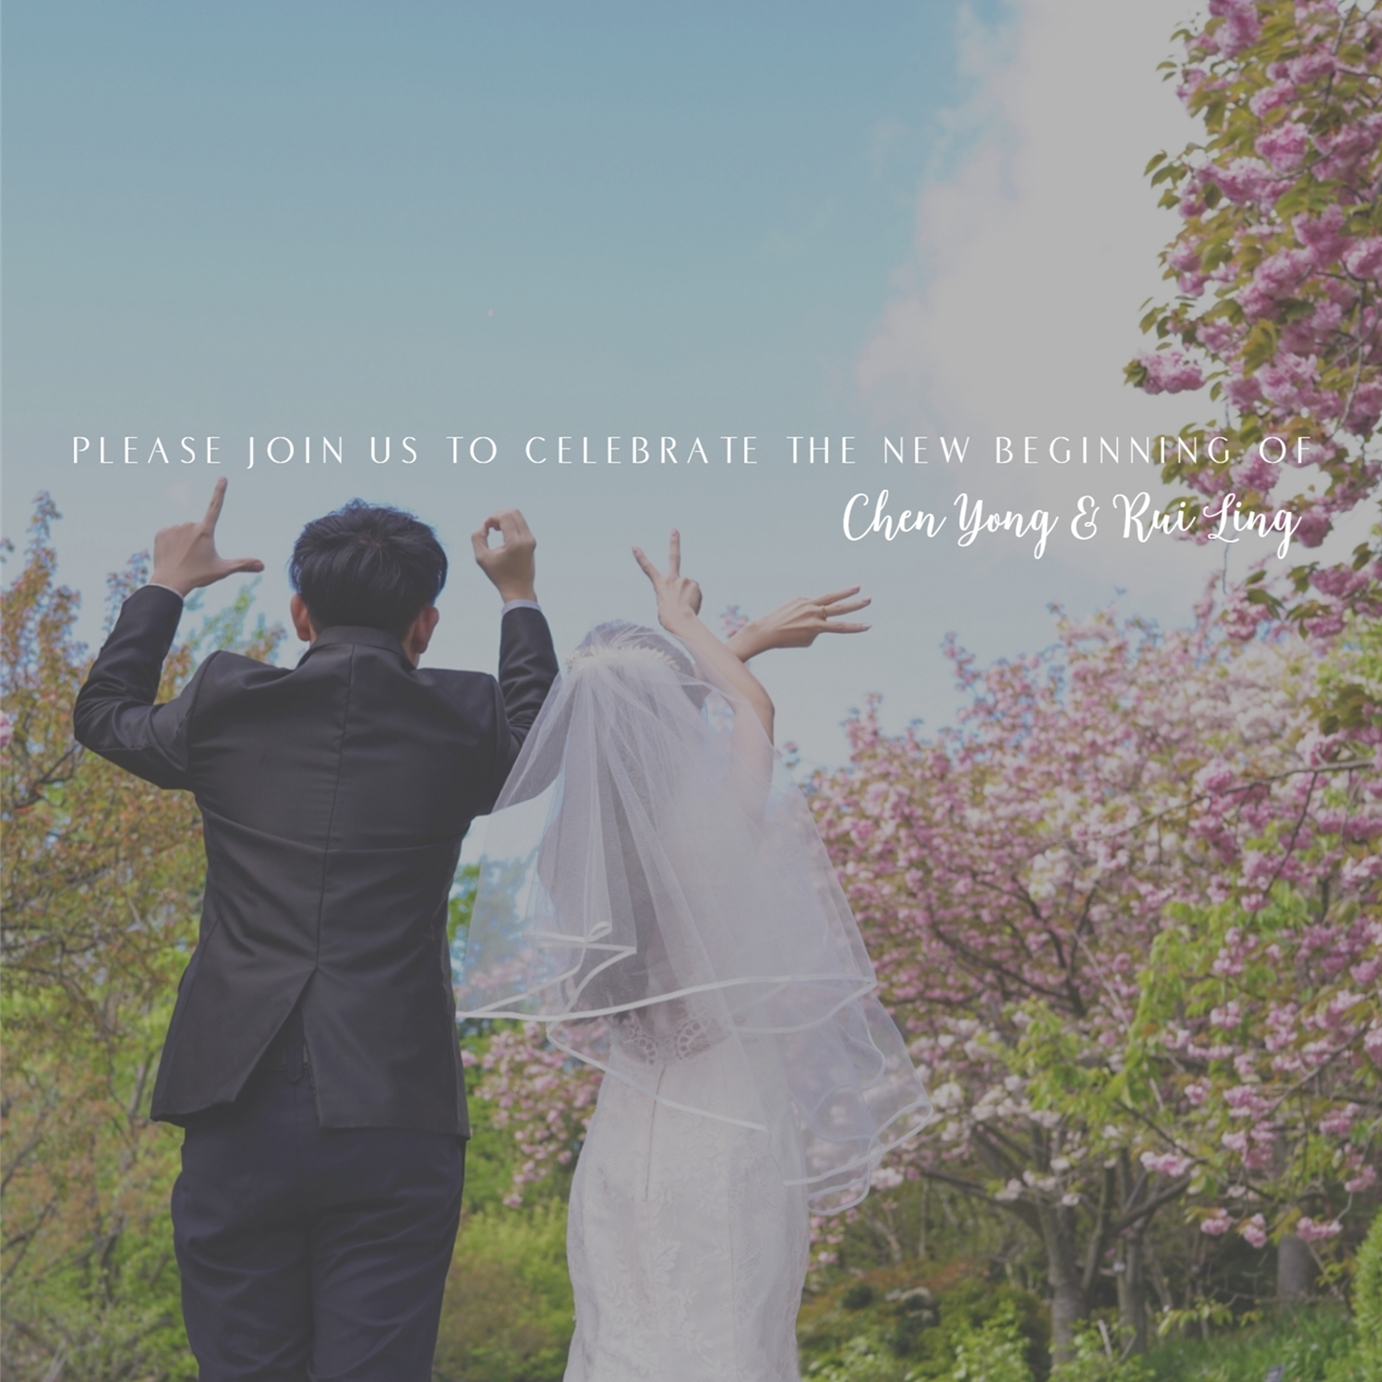
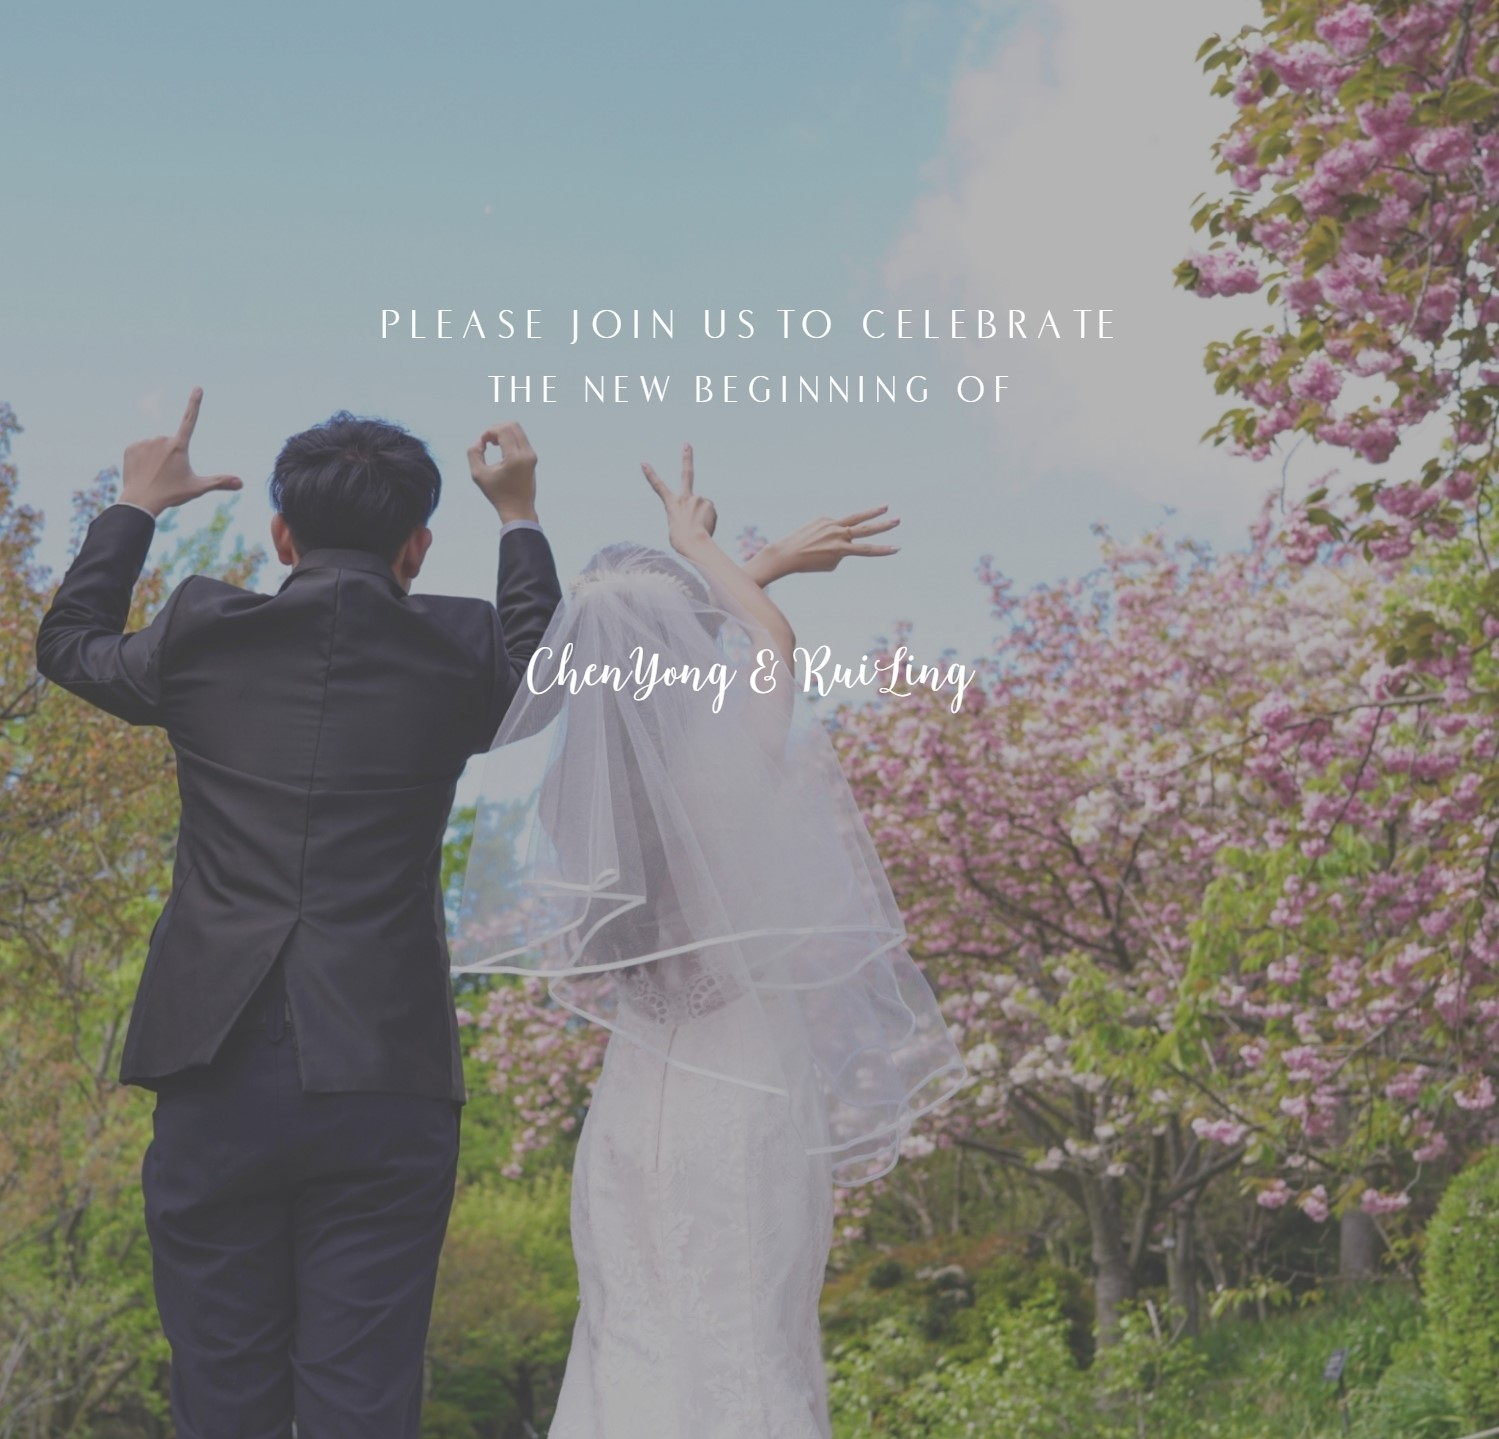
28-sep

diff --git a/rysayido/src/main/webapp/index.html b/rysayido/src/main/webapp/index.html
@@ -58,27 +58,27 @@
       </div>
     </nav>
 
-    <header class="masthead text-white d-flex" style="min-height:50vw;">
+    <header class="masthead text-center text-white d-flex" style="min-height:65vw;">
       <div class="container my-auto">
         <div class="row">
           <div class="col-lg-12 mx-auto">
-              <label style="font-family:'sans-serif';font-size:4vw; margin-top:30vw; margin-left:38vw;">0 9 | M A R | 2 0 1 9 </label>
-			<ul class="countdown" style="margin-left:40vw; margin-top:2vw;">
+              <label style="font-family:'sans-serif';font-size:2.5vw; margin-top:15vw; margin-bottom:0vw; ">0 9 | M A R | 2 0 1 9 </label>
+			<ul class="countdown" style=" ">
 				<li>
 					<span class="days">00</span>
 					<p class="days_ref" style="color:#ffffff; ">Days</p>
 				</li>
-				<li class="seperator">.</li>
+				<li class="seperator"></li>
 				<li>
 					<span class="hours">00</span>
 					<p class="hours_ref" style="color:#ffffff; ">Hours</p>
 				</li>
-				<li class="seperator">:</li>
+				<li class="seperator"></li>
 				<li>
 					<span class="minutes">00</span>
 					<p class="minutes_ref" style="color:#ffffff; ">Minutes</p>
 				</li>
-				<li class="seperator">:</li>
+				<li class="seperator"></li>
 				<li>
 					<span class="seconds">00</span>
 					<p class="seconds_ref" style="color:#ffffff; ">Seconds</p>
@@ -91,148 +91,153 @@
         </div>
       </div>
     </header>
-
-    <section class="" id="aboutUs">
-      <div class="container">
-        <div class="row">
-          <div class="col-lg-8 mx-auto text-center">
-            <h2 class="section-heading ">Our Story</h2>
-            <hr class="light my-4">
-            <p class="mb-4">Description</p>
-            <a class="btn btn-light btn-xl js-scroll-trigger" href="#event">Event</a>
-          </div>
-        </div>
-      </div>
-    </section>
 	
-	<section id="photo" style="background: url('img/wedding/background2.JPG'); background-size:contain; background-repeat:no-repeat; background-position: center center;">
-        <div class="row">
-          <div class="col-lg-8 mx-auto text-center">
-            <h2 class="section-heading">Gallery</h2>
-            <div class="row">
-				<div id="galleryDiv" class="row"></div>
-			</div>
-          </div>
-        </div>
-        <div class="modal fade" id="image-gallery" tabindex="-1" role="dialog" aria-labelledby="myModalLabel" aria-hidden="true" style="max-height:100%; ">
-            <div class="modal-dialog modal-lg" style="max-width:500px; max-height:700px; ">
-                <div class="modal-content">
-                    <div class="modal-header">
-                        <h4 class="modal-title" id="image-gallery-title"></h4>
-                        <button type="button" class="close" data-dismiss="modal"><span aria-hidden="true">×</span><span class="sr-only">Close</span>
-                        </button>
-                    </div>
-                    <div class="modal-body">
-                        <img id="image-gallery-image" class="img-responsive col-md-12" src="">
-                    </div>
-                    <div class="modal-footer">
-                        <button type="button" class="btn btn-secondary float-left" id="show-previous-image"><i class="fa fa-arrow-left"></i>
-                        </button>
-
-                        <button type="button" id="show-next-image" class="btn btn-secondary float-right"><i class="fa fa-arrow-right"></i>
-                        </button>
-                    </div>
-                </div>
-            </div>
-        </div>
-    </section>
+	<!--div for background -->
+	<div style="background: url('img/wedding/background_all.JPG'); background-size:contain; background-repeat:repeat-y; background-position: center center;">
+	    <section class="" id="aboutUs">
+	      <div class="container">
+	        <div class="row">
+	          <div class="col-lg-8 mx-auto text-center">
+	            <h2 class="section-heading ">Our Story</h2>
+	            <hr class="light my-4">
+	            <p class="mb-4">Description</p>
+	            <a class="btn btn-light btn-xl js-scroll-trigger" href="#event">Event</a>
+	          </div>
+	        </div>
+	      </div>
+	    </section>
+		
+		<section id="photo" >
+	        <div class="row">
+	          <div class="col-lg-8 mx-auto text-center">
+	            <h2 class="section-heading">Me & You</h2>
+	            <div class="row">
+					<div id="galleryDiv" class="row"></div>
+				</div>
+	          </div>
+	        </div>
+	        <div class="modal fade" id="image-gallery" tabindex="-1" role="dialog" aria-labelledby="myModalLabel" aria-hidden="true" style="max-height:100%; ">
+	            <div class="modal-dialog modal-lg" style="max-width:500px; max-height:700px; ">
+	                <div class="modal-content">
+	                    <div class="modal-header">
+	                        <h4 class="modal-title" id="image-gallery-title"></h4>
+	                        <button type="button" class="close" data-dismiss="modal"><span aria-hidden="true">×</span><span class="sr-only">Close</span>
+	                        </button>
+	                    </div>
+	                    <div class="modal-body">
+	                        <img id="image-gallery-image" class="img-responsive col-md-12" src="">
+	                    </div>
+	                    <div class="modal-footer">
+	                        <button type="button" class="btn btn-secondary float-left" id="show-previous-image"><i class="fa fa-arrow-left"></i>
+	                        </button>
 	
-    <section id="event">
-      <div class="container">
-        <div class="row">
-          <div class="col-lg-12 text-center">
-            <h2 class="section-heading">Event Details</h2>
-            <hr class="my-4">
-          </div>
-        </div>
-      </div>
-	  <div class="row col-sm-12">
-		  <div class="container col-sm-6 center">
-			  <div class="text-center">
-				<div class="mx-auto">
-				  <h3 class="mb-3">Melaka Dinner</h3>
-				  <p>MING HAO Banquet & Restaurant Sdn Bhd, Taman Cheng Utama, 75260 Malacca</p>		  
-				  <div id="map"></div>
-				  <a target="_blank" href="https://www.google.com/maps/place/MING+HAO+Banquet+%26+Restaurant+Sdn+Bhd/@2.2608462,102.2199713,17z/data=!3m1!4b1!4m5!3m4!1s0x31d1fa9077183649:0xd252f0c8d39f10d2!8m2!3d2.2608408!4d102.22216">click here to open map</a>
-				  <br>
-				  <!-- <a class="btn btn-light btn-xl js-scroll-trigger col-sm-12" href="#rsvp" onclick="goMelaka()">go</a> -->
-				</div>
+	                        <button type="button" id="show-next-image" class="btn btn-secondary float-right"><i class="fa fa-arrow-right"></i>
+	                        </button>
+	                    </div>
+	                </div>
+	            </div>
+	        </div>
+	    </section>
+		
+	    <section id="event">
+	      <div class="container">
+	        <div class="row">
+	          <div class="col-lg-12 text-center">
+	            <h2 class="section-heading">Please Join Us</h2>
+	            <hr class="my-4">
+	          </div>
+	        </div>
+	      </div>
+		  <div class="row col-sm-12">
+			  <div class="container col-sm-6 center">
+				  <div class="text-center">
+					<div class="mx-auto">
+					  <h3 class="mb-3">Melacca Banquet</h3>
+					  <p>MING HAO Banquet & Restaurant Sdn Bhd, Taman Cheng Utama, 75260 Malacca</p>		  
+					  <div id="map"></div>
+					  <a target="_blank" href="https://www.google.com/maps/place/MING+HAO+Banquet+%26+Restaurant+Sdn+Bhd/@2.2608462,102.2199713,17z/data=!3m1!4b1!4m5!3m4!1s0x31d1fa9077183649:0xd252f0c8d39f10d2!8m2!3d2.2608408!4d102.22216">
+					  Take Me There
+					  </a>
+					  <br>
+					  <a class="btn btn-light btn-xl js-scroll-trigger col-sm-2" href="#rsvp" onclick="goMelaka()">RSVP</a> 
+					</div>
+				  </div>
 			  </div>
+			  <!-- <div class="container col-sm-6">
+				  <div class=" text-center">
+					<div class=" mx-auto">
+					  <h3 class="mb-3">Johor Bahru Dinner</h3>	
+					  <p>PTD6510, Jalan Bunga Kertas 1, 81000 Kulai, Johor</p>		  
+					  <div id="map2"></div>
+					  <a target="_blank" href="https://www.google.com/maps/place/Cathay+Restaurant/@1.661325,103.5841725,17.26z/data=!4m8!1m2!2m1!1sCathay+Restaurant!3m4!1s0x31da790005e066e1:0x1553b7198d14bfe9!8m2!3d1.661259!4d103.5840121">click here to open map</a>
+					  <br>
+					  <a class="btn btn-light btn-xl js-scroll-trigger col-sm-12" href="#rsvp" onclick="goJb()">go</a>
+					</div>
+				  </div>
+			  </div> -->
 		  </div>
-		  <div class="container col-sm-6">
-			  <div class=" text-center">
-				<div class=" mx-auto">
-				  <h3 class="mb-3">Johor Bahru Dinner</h3>	
-				  <p>PTD6510, Jalan Bunga Kertas 1, 81000 Kulai, Johor</p>		  
-				  <div id="map2"></div>
-				  <a target="_blank" href="https://www.google.com/maps/place/Cathay+Restaurant/@1.661325,103.5841725,17.26z/data=!4m8!1m2!2m1!1sCathay+Restaurant!3m4!1s0x31da790005e066e1:0x1553b7198d14bfe9!8m2!3d1.661259!4d103.5840121">click here to open map</a>
-				  <br>
-				  <!-- <a class="btn btn-light btn-xl js-scroll-trigger col-sm-12" href="#rsvp" onclick="goJb()">go</a> -->
-				</div>
-			  </div>
-		  </div>
-	  </div>
-    </section>
-
-    <section id="rsvp" style="background: url('img/wedding/background3.JPG'); max-height:max-content; max-width:100%; height:auto; width:auto; background-repeat:no-repeat; background-position: 40% 50%;">
-      <div class="container">
-        <div class="row">
-          <div class="col-lg-8 mx-auto text-center">
-            <h1 class="section-heading">RSVP</h1>
-            <div class="container-fluid">
-				<div class="container">
-					<div class="formBox">
-						<form id="rsvpForm" name="rsvpForm" class="form-horizontal">
-							<div class="row col-sm-12 form-group">
-								<label for="fullName" class="label col-sm-6" >CHINESE NAME 姓名: </label>
-								<input type="text" id="fullName" name="fullName" placeholder="中文全名" class="input form-control col-sm-6">
-							</div>
-							<div class="row col-sm-12 form-group">
-								<label for="contactNo" class="label col-sm-6" >CONTACT NO 电话: </label>
-								<input type="text" id="contactNo" name="contactNo" placeholder="手机号码" class="input form-control col-sm-6">
-							</div>
-							<div class="row col-sm-12 form-group">
-								<label class="label col-sm-6" >YOU ARE A GUEST OF : </label>
-								
-								<div class="btn-group btn-group-toggle col-sm-6" data-toggle="buttons">
-									<label class="btn btn-secondary active">
-										<input type="radio" name="guessOf" autocomplete="off" value="Groom" checked> Groom 男方
-									</label>
-									<label class="btn btn-secondary">
-										<input type="radio" name="guessOf" autocomplete="off" value="Bride" > Bride 女方
-									</label>
+	    </section>
+	
+	    <section id="rsvp">
+	      <div class="container">
+	        <div class="row">
+	          <div class="col-lg-8 mx-auto text-center">
+	            <h1 class="section-heading">RSVP</h1>
+	            <div class="container-fluid">
+					<div class="container">
+						<div class="formBox">
+							<form id="rsvpForm" name="rsvpForm" class="form-horizontal">
+								<div class="row col-sm-12 form-group">
+									<label for="fullName" class="label col-sm-6" >Chinese Name: </label>
+									<input type="text" id="fullName" name="fullName" placeholder="中文全名" class="input form-control col-sm-6">
 								</div>
-								
-							</div>
-							<div class="row col-sm-12 form-group">
-								<label class="label col-sm-6" >CHOICE OF MENU 菜单: </label>
-								<div class="btn-group btn-group-toggle col-sm-6" data-toggle="buttons">
-									<label class="btn btn-secondary active">
-										<input type="radio" name="choiceMenu" autocomplete="off" value="Normal" checked> Normal 肉
-									</label>
-									<label class="btn btn-secondary">
-										<input type="radio" name="choiceMenu" autocomplete="off" value="Vegetarian" > Vegetarian 栽
-									</label>
+								<div class="row col-sm-12 form-group">
+									<label for="contactNo" class="label col-sm-6" >Contact No.: </label>
+									<input type="text" id="contactNo" name="contactNo" placeholder="手机号码" class="input form-control col-sm-6">
 								</div>
-							</div>
-							<div class="row col-sm-12 form-group">
-								<label class="label col-sm-6" >PARTNERS : </label>
-								<input id="partnersNo" type="number" name="partnersNo" value="0" class="input form-control col-sm-6">
-							</div>
-							<div id="partnerNameDiv" class="row col-sm-12 form-group"></div>
-							<div class="row">
-								<div class="col-sm-12">
-									<input type="button" name="submitBtn" class="btn btn-default" value="Submit" onclick="submitRsvp()">
+								<div class="row col-sm-12 form-group">
+									<label class="label col-sm-6" >You Are A Guess Of : </label>
+									
+									<div class="btn-group btn-group-toggle col-sm-6" data-toggle="buttons">
+										<label class="btn btn-secondary buttonBorder active">
+											<input type="radio" name="guessOf" autocomplete="off" value="Groom" checked> Groom 新郎
+										</label>
+										<label class="btn btn-secondary buttonBorder">
+											<input type="radio" name="guessOf" autocomplete="off" value="Bride" > Bride 新娘
+										</label>
+									</div>
+									
 								</div>
-							</div>
-						</form>
+								<div class="row col-sm-12 form-group">
+									<label class="label col-sm-6" >Choice Of Menu 菜单: </label>
+									<div class="btn-group btn-group-toggle col-sm-6" data-toggle="buttons">
+										<label class="btn btn-secondary buttonBorder active">
+											<input type="radio" name="choiceMenu" autocomplete="off" value="Non-Vegetarian" checked> Non-Vegetarian 非素食
+										</label>
+										<label class="btn btn-secondary buttonBorder">
+											<input type="radio" name="choiceMenu" autocomplete="off" value="Vegetarian" > Vegetarian 素食
+										</label>
+									</div>
+								</div>
+								<div class="row col-sm-12 form-group">
+									<label class="label col-sm-6" >PARTNERS : </label>
+									<input id="partnersNo" type="number" name="partnersNo" value="0" class="input form-control col-sm-6">
+								</div>
+								<div id="partnerNameDiv" class="row col-sm-12 form-group"></div>
+								<div class="row">
+									<div class="col-sm-12">
+										<input type="button" name="submitBtn" class="btn btn-default" value="Submit" onclick="submitRsvp()">
+									</div>
+								</div>
+							</form>
+						</div>
 					</div>
 				</div>
-			</div>
-          </div>
-        </div>
-      </div>
-    </section>
+	          </div>
+	        </div>
+	      </div>
+	    </section>
+	</div>
     <!-- Bootstrap core JavaScript -->
     <script src="vendor/jquery/jquery.min.js"></script>
     <script src="vendor/bootstrap/js/bootstrap.bundle.min.js"></script>

diff --git a/rysayido/src/main/webapp/js/common.js b/rysayido/src/main/webapp/js/common.js
@@ -139,7 +139,7 @@
 		$('#galleryDiv').html("");
 		var content = "";
 		for (i=0;i<imgSrc.length;i++){
-				content+='<div class="col-lg-3 col-md-4 col-xs-6">';
+				content+='<div class="col-lg-3 col-md-4 col-4 thumb">';
 				content+='		<a class="thumbnail" href="#" data-image-id="" data-toggle="modal" data-title="" data-image="'+imgSrc[i]+'" data-target="#image-gallery">';
 				content+='			<img class="img-thumbnail" src="'+imgSrc[i]+'" alt="Another alt text" onContextMenu="return false;">';
 				content+='		</a>';

diff --git a/rysayido/src/main/webapp/css/common.css b/rysayido/src/main/webapp/css/common.css
@@ -11,3 +11,13 @@
   margin-top: 15px;
   margin-bottom: 15px;
 }
+
+.buttonBorder {
+    background-color: Transparent;
+    color: black;
+    border: 2px solid #e7e7e7;
+    border-top-right-radius: 0;
+    border-bottom-right-radius: 0;
+    border-top-left-radius: 0;
+    border-bottom-left-radius: 0;
+}

diff --git a/rysayido/src/main/webapp/css/countdown.css b/rysayido/src/main/webapp/css/countdown.css
@@ -12,14 +12,14 @@ ul.countdown li {
 }
 
 ul.countdown li span {
-	font-size: 4vw;
+	font-size: 3vw;
 	font-weight: 300;
 	line-height: 2.6vw;
 }
 
 ul.countdown li.seperator {
-	font-size: 4vw;
-	line-height: 4.1vw;
+	font-size: 3vw;
+	line-height: 3.1vw;
 	vertical-align: top;
 }
 
